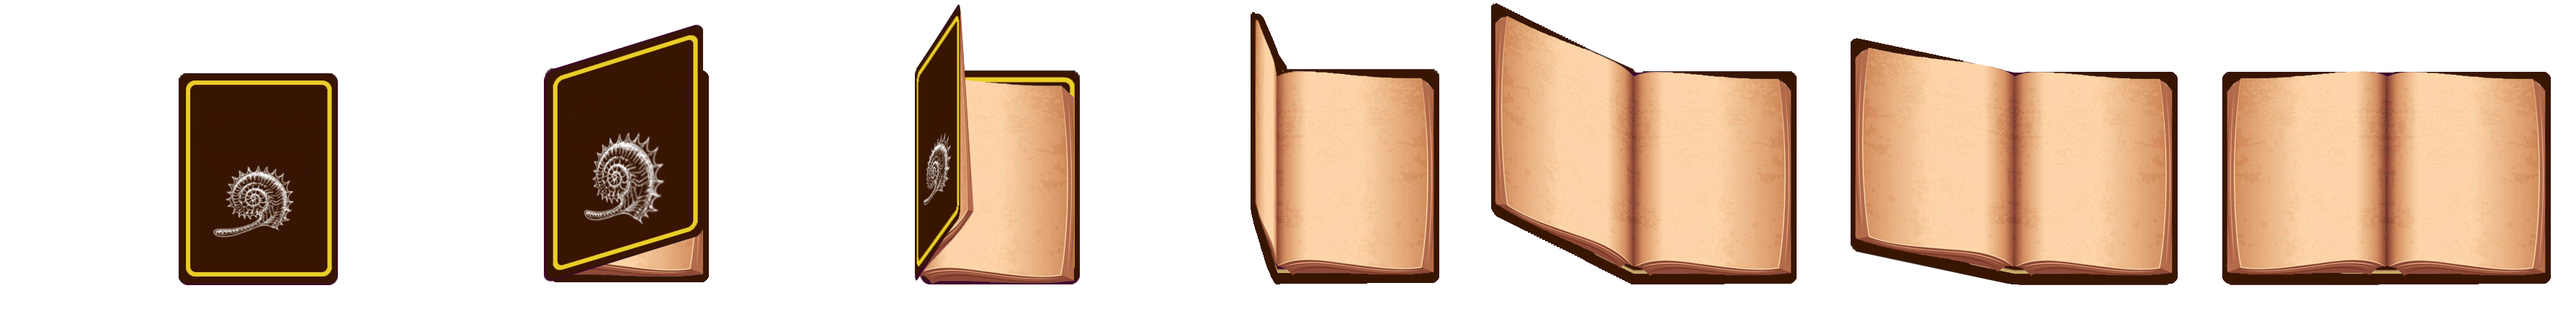
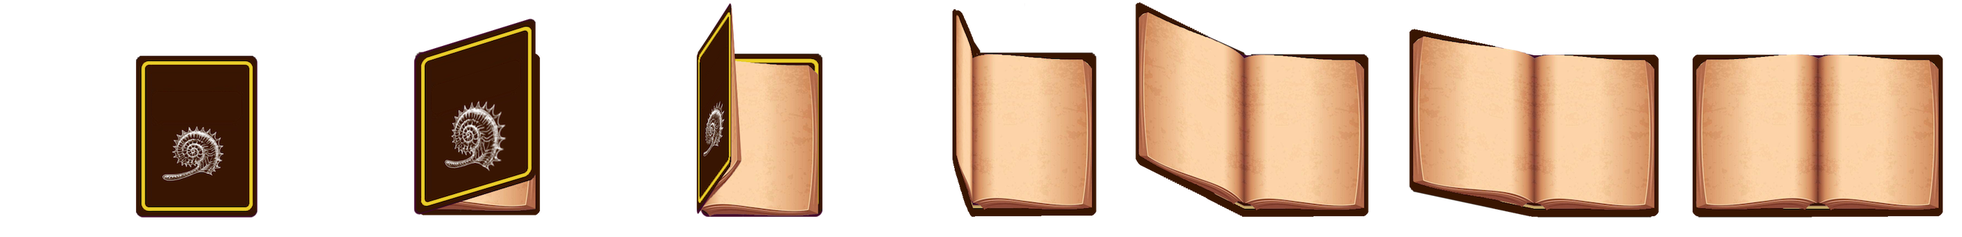
Added animation third book

diff --git a/core/src/mx/com/nullpointer/screens/LevelsScreen.java b/core/src/mx/com/nullpointer/screens/LevelsScreen.java
@@ -35,6 +35,7 @@ class LevelsScreen extends GenericScreen{
     private Texture backgroundTexture;
     private Texture bookTexture1;
     private Texture bookTexture2;
+    private Texture bookTexture3;
 
     private TextureRegionDrawable trdPlay;
     private TextureRegionDrawable trdPlayPress;
@@ -83,8 +84,7 @@ class LevelsScreen extends GenericScreen{
         backgroundTexture = new Texture("background/menubg.png");
         bookTexture1 = new Texture("background/tiraLibroAbriendose.png");
         bookTexture2 = new Texture("background/tiraLibroAbriendose2.png");
-
-
+        bookTexture3 = new Texture("background/tiraLibroAbriendose3.png");
 
 
         Texture playButtonTexture = assetManager.get("niveles/playbtnlevels.png");
@@ -168,7 +168,7 @@ class LevelsScreen extends GenericScreen{
         levelThreeStage.addActor(btnSix);
         levelThreeStage.addActor(imgStarLevel6);
 
-        //Botón Subnivel 2 primer nivel
+
         Texture levelSevenTexture = assetManager.get("niveles/dos/levelFour.png");
         TextureRegionDrawable trdLevelSeven = new TextureRegionDrawable(new TextureRegion(levelSevenTexture));
         Image imgLevelSeven = new Image(trdLevelSeven);
@@ -204,7 +204,7 @@ class LevelsScreen extends GenericScreen{
         }
 
 
-        //Botón Subnivel 3 segundo
+        //
         Texture levelEightTexture = assetManager.get("niveles/dos/levelFive.png");
         TextureRegionDrawable trdLevelEight = new TextureRegionDrawable(new TextureRegion(levelEightTexture));
         Image imgLevelEight = new Image(trdLevelEight);
@@ -576,8 +576,8 @@ class LevelsScreen extends GenericScreen{
             public void clicked(InputEvent event, float x, float y){
                 super.clicked(event, x, y);
                 if (lastLevel >= 6){
-                    TextureRegion region = new TextureRegion(bookTexture2);
-                    TextureRegion[][] frames = region.split(bookTexture2.getWidth()/7, bookTexture2.getHeight());
+                    TextureRegion region = new TextureRegion(bookTexture3);
+                    TextureRegion[][] frames = region.split(bookTexture3.getWidth()/7, bookTexture3.getHeight());
                     animationBook = new Animation(0.12f, frames[0][0], frames[0][1], frames[0][2], frames[0][3], frames[0][4], frames[0][5]);
                     animationBook.setPlayMode(Animation.PlayMode.NORMAL);
                     openBook = true;

diff --git a/core/src/mx/com/nullpointer/screens/MenuScreen.java b/core/src/mx/com/nullpointer/screens/MenuScreen.java
@@ -66,7 +66,7 @@ public class MenuScreen extends GenericScreen {
             case 6:
             case 7:
             case 8:
-                levelTextureName = "background/menu_bg_3.png";
+                levelTextureName = "background/menu_bg_2.png";
                 break;
 
         }
@@ -210,7 +210,7 @@ public class MenuScreen extends GenericScreen {
         //Background
         assetManager.unload("background/menu_bg_1.png");
         assetManager.unload("background/menu_bg_2.png");
-        assetManager.unload("background/menu_bg_3.png");
+        //assetManager.unload("background/menu_bg_3.png");
         assetManager.unload("background/menu_bg_cover.png");
         //Logo
         assetManager.unload("logo.png");

diff --git a/core/src/mx/com/nullpointer/screens/LoadingScreen.java b/core/src/mx/com/nullpointer/screens/LoadingScreen.java
@@ -55,7 +55,7 @@ public class LoadingScreen extends GenericScreen {
                 //Background
                 assetManager.load("background/menu_bg_1.png", Texture.class);
                 assetManager.load("background/menu_bg_2.png", Texture.class);
-                assetManager.load("background/menu_bg_3.png", Texture.class);
+                //assetManager.load("background/menu_bg_3.png", Texture.class);
                 assetManager.load("background/menu_bg_cover.png", Texture.class);
                 //Logo
                 assetManager.load("logo.png", Texture.class);
